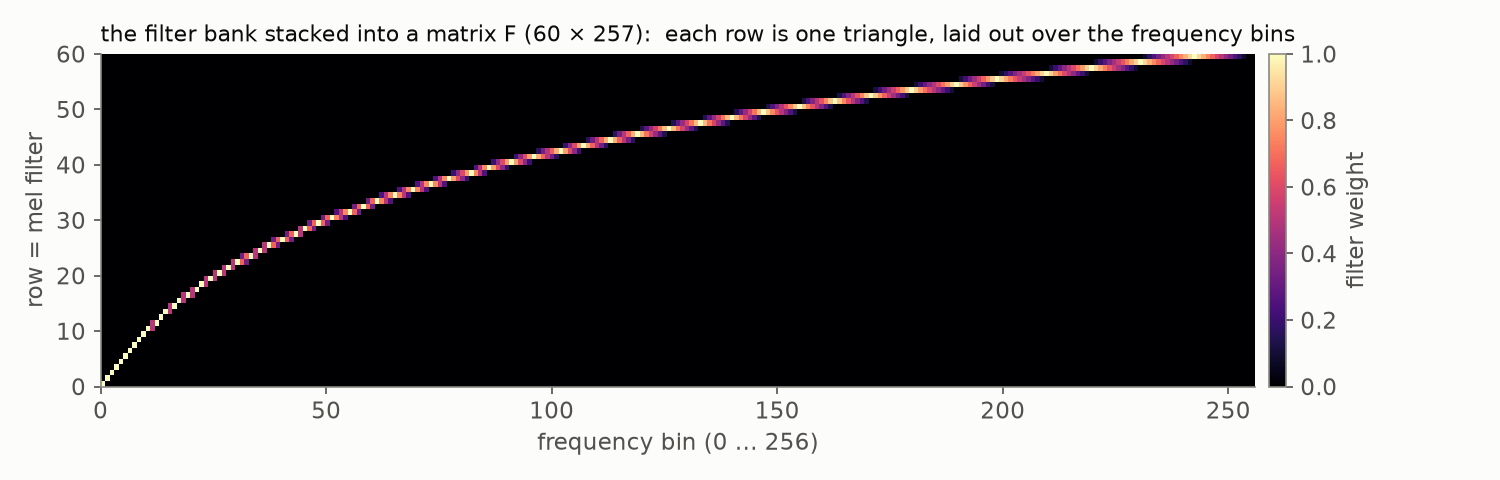
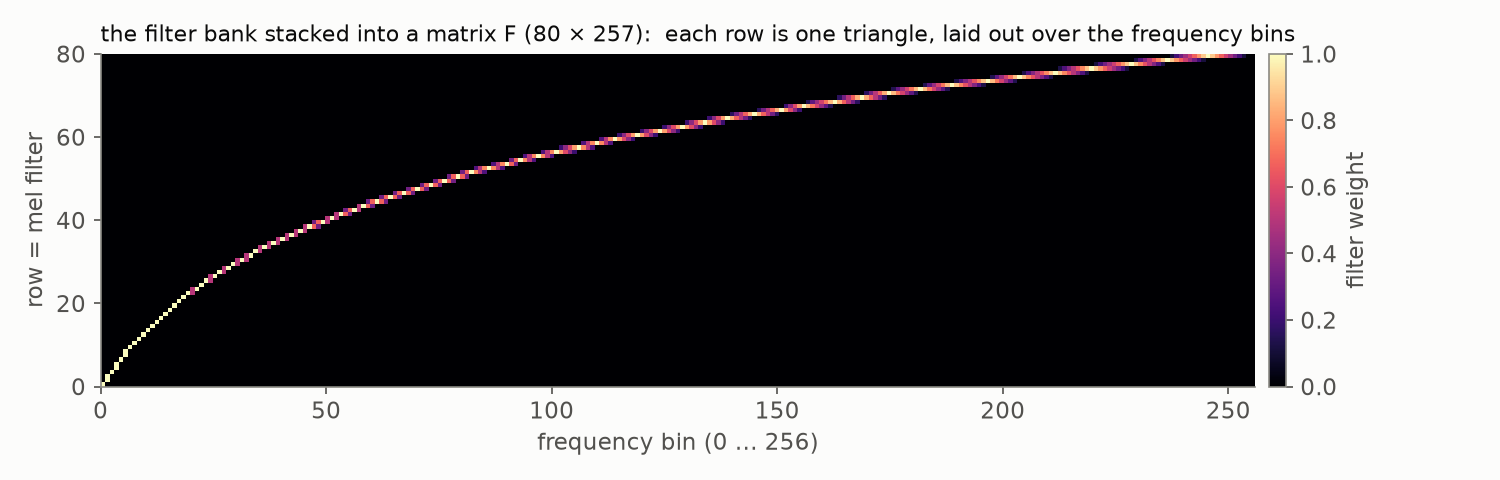
Mel bank: 80 filters (the speech-synthesis standard), figures and accounting updated

diff --git a/content/posts/fourier-series-to-spectrogram-part-3/index.md b/content/posts/fourier-series-to-spectrogram-part-3/index.md
@@ -275,24 +275,25 @@ triangular filters, evenly spaced *in mel* — therefore narrow and dense at
 low frequencies, wide and sparse at high ones (bottom panel above). Now
 stack the triangles into a matrix $F$, **one filter per row**: each row is
 one triangle from the picture above, written out as its weights over all
-the frequency bins. With $60$ filters over the $257$ frequency rows of our
-spectrogram, $F$ is a $60 \times 257$ matrix:
+the frequency bins. With $80$ filters — the de-facto standard in speech
+synthesis; recognition systems often get by with $40$ — over the $257$
+frequency rows of our spectrogram, $F$ is an $80 \times 257$ matrix:
 
 ![The mel filter bank stacked into a matrix, one triangle per row](mel_matrix.png)
 
 The whole conversion is then a single matrix multiplication. One column of
 the spectrogram is a vector of $257$ magnitudes; multiplying by $F$ takes
-$60$ weighted sums of it — one sum per filter, each collecting the bins
+$80$ weighted sums of it — one sum per filter, each collecting the bins
 under its triangle. And multiplying $F$ by *all* the columns at once
 handles the entire recording in one stroke:
 
 $$
-M = F \cdot S, \qquad (60 \times 257) \cdot (257 \times T) = 60 \times T,
+M = F \cdot S, \qquad (80 \times 257) \cdot (257 \times T) = 80 \times T,
 $$
 
 where $T$ is the number of frames. A logarithm on top — the same dB story
 as before — and the result is the **mel-spectrogram**, every column
-squeezed from $257$ linear-frequency numbers into $60$ perceptually spaced
+squeezed from $257$ linear-frequency numbers into $80$ perceptually spaced
 ones:
 
 ![The spectrogram and its mel-compressed version](mel_spectrogram.png)
@@ -312,7 +313,7 @@ buy, in raw numbers? For our recording:
 |---|---|---|---|
 | waveform | $52\,225$ samples | $52\,225$ | $22\,050$ values per second |
 | spectrogram $S$ | $257 \times 405$ | $104\,085$ | $\approx 170$ columns per second |
-| mel-spectrogram $M$ | $60 \times 405$ | $24\,300$ | $\approx 170$ columns per second |
+| mel-spectrogram $M$ | $80 \times 405$ | $32\,400$ | $\approx 170$ columns per second |
 
 Two honest surprises in this table. First, the spectrogram is *not* a
 compression: overlapping frames see every sample about four times, so $S$
@@ -321,7 +322,8 @@ the *organization*: the time axis became $128$ times coarser — one column
 per hop instead of one value per sample — and in exchange each column
 spells out explicitly what the samples only implied: which frequencies are
 present at that moment. Second, the genuine shrinkage arrives only with the
-mel step: $M$ is less than half the raw waveform and a quarter of $S$ — and
+mel step: $M$ is about $60\%$ of the raw waveform and less than a third of
+$S$ — and
 yet, as the pictures show, still perfectly legible: the harmonics, the
 fricative bursts, the silences between words all survived. Fewer numbers,
 arranged so that the structure shows — that, in one line, is what audio
